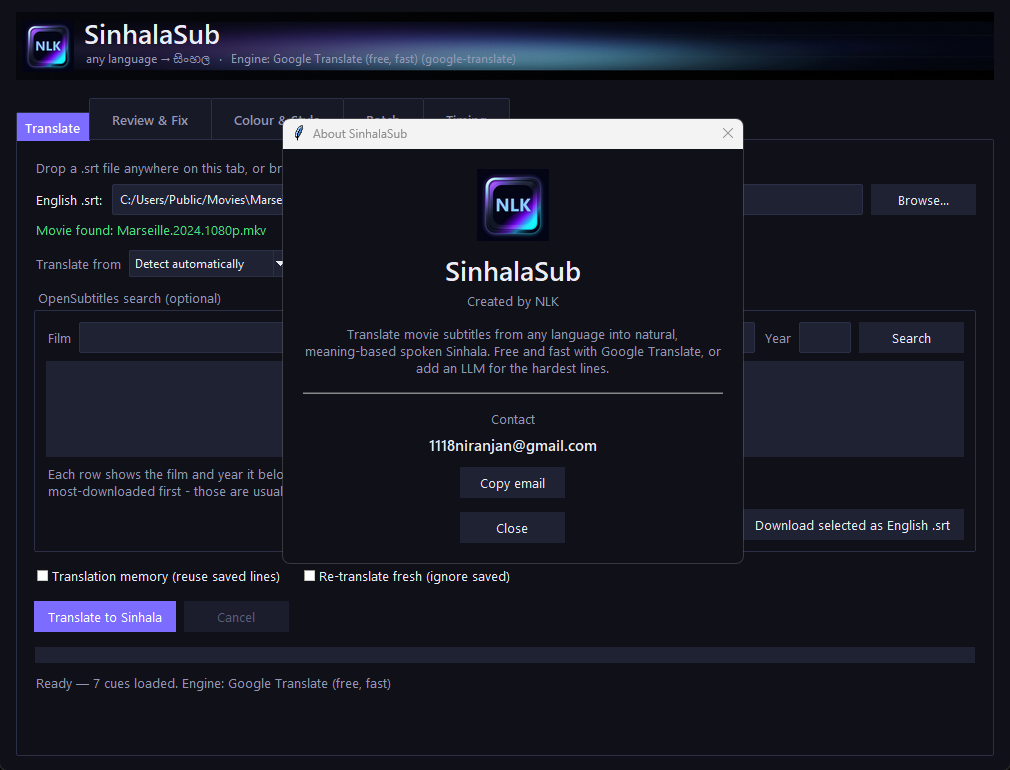
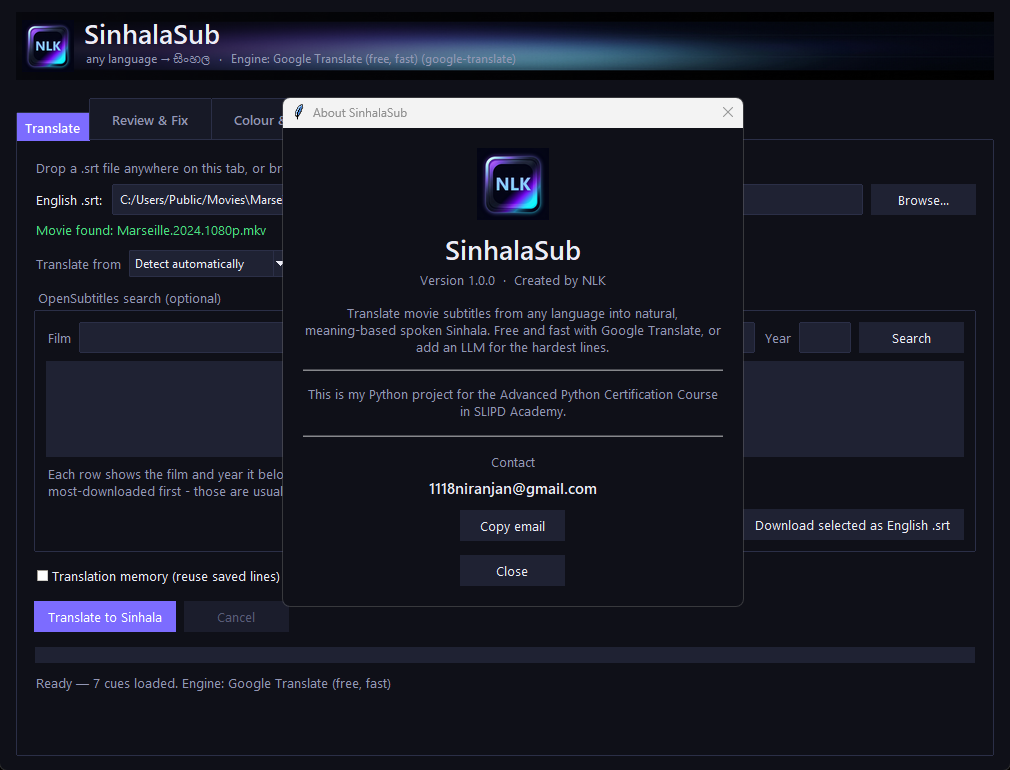
refactor: move the code into a sinhalasub package
The root now holds only what you run - main.py and SinhalaSub.pyw - with every
module inside sinhalasub/, so someone opening the repository sees the entry
point immediately instead of a wall of files.

Your settings, secrets and translation database still live beside the launcher
rather than inside the package, so the paths people already have keep working.
Adds the SLIPD Academy course credit to About and the README, points the clone
URL at the real repository, and documents the layout.

Changed region(s): [[0.2762, 0.1247, 0.7366, 0.7792]]

diff --git a/sinhalasub/app.py b/sinhalasub/app.py
@@ -27,13 +27,10 @@ from tkinter import colorchooser, filedialog, messagebox, ttk
 
 import pysrt
 
-import colorize
-import memory_db
-import providers
-import quality
-import subtitle_export
+from . import (ROOT_DIR, __version__, colorize, memory_db, providers,
+               quality, subtitle_export)
 
-_HERE = os.path.dirname(os.path.abspath(__file__))
+_HERE = ROOT_DIR  # settings, database and assets sit beside the app
 
 
 def load_env_file(path=None):
@@ -1356,12 +1353,17 @@ class SinhalaSubApp:
         if logo:
             tk.Label(frm, image=logo, bd=0, bg=BG).pack()
         ttk.Label(frm, text="SinhalaSub", style="Title.TLabel").pack(pady=(8, 0))
-        ttk.Label(frm, text="Created by NLK", style="Dim.TLabel").pack()
+        ttk.Label(frm, text="Version %s  ·  Created by NLK" % __version__,
+                  style="Dim.TLabel").pack()
         ttk.Label(frm, style="Dim.TLabel", wraplength=420, justify="center",
                   text="Translate movie subtitles from any language into natural, "
                        "meaning-based spoken Sinhala. Free and fast with Google "
                        "Translate, or add an LLM for the hardest lines.").pack(
             pady=(12, 0))
+        ttk.Separator(frm, orient="horizontal").pack(fill="x", pady=12)
+        ttk.Label(frm, style="Dim.TLabel", wraplength=420, justify="center",
+                  text="This is my Python project for the Advanced Python "
+                       "Certification Course in SLIPD Academy.").pack()
 
         ttk.Separator(frm, orient="horizontal").pack(fill="x", pady=14)
         ttk.Label(frm, text="Contact", style="Dim.TLabel").pack()

diff --git a/sinhalasub/providers.py b/sinhalasub/providers.py
@@ -12,7 +12,9 @@ import subprocess
 import threading
 import time
 
-_HERE = os.path.dirname(os.path.abspath(__file__))
+from . import ROOT_DIR
+
+_HERE = ROOT_DIR  # secrets.json sits beside the app, not inside the package
 SECRETS_PATH = os.path.join(_HERE, "secrets.json")
 
 # On Windows the claude CLI is a .cmd shim; hide the console window it spawns.
@@ -383,7 +385,7 @@ class GoogleTranslateProvider(Provider):
         return targets
 
     def translate(self, prompt, stdin_text, timeout):
-        import subtitle_text as st
+        from . import subtitle_text as st
 
         targets = self._targets(stdin_text)
         if not targets:
@@ -510,10 +512,9 @@ def build_active_provider(settings, secrets=None, cli_path=None):
     # Names learned from earlier movies keep a character's spelling consistent;
     # anything the user typed explicitly still wins.
     try:
-        import memory_db
-        import os as _os
+        from . import memory_db
         gloss = memory_db.MemoryDB(
-            _os.path.join(_HERE, "translations.db")).glossary_with_names(gloss)
+            os.path.join(ROOT_DIR, "translations.db")).glossary_with_names(gloss)
     except Exception:  # noqa: BLE001 - the glossary is an enhancement, not a need
         pass
     source = settings.get("source_lang") or "auto"

diff --git a/tests/test_google_translate_provider.py b/tests/test_google_translate_provider.py
@@ -1,4 +1,4 @@
-import providers
+from sinhalasub import providers
 
 
 class FakeBatchTranslator:
@@ -41,7 +41,7 @@ def test_translates_only_the_translate_section(monkeypatch):
 
 def test_output_parses_with_the_existing_response_parser(monkeypatch):
     monkeypatch.setattr(providers, "_google_translator_cls", lambda: FakeBatchTranslator)
-    import sinhalasub
+    from sinhalasub import app as sinhalasub
     prov = providers.GoogleTranslateProvider()
     stdin = "TRANSLATE (1 lines):\n5|||Some line\n"
     out = prov.translate("P", stdin, 60)

diff --git a/sinhalasub/__init__.py b/sinhalasub/__init__.py
@@ -1,0 +1,14 @@
+"""SinhalaSub - translate movie subtitles from any language into Sinhala.
+
+The code lives in this package; the project root holds the launcher, your
+settings and the translation database. ROOT_DIR points at that root so user
+data is written beside the app rather than inside the source folder.
+"""
+
+import os
+
+PACKAGE_DIR = os.path.dirname(os.path.abspath(__file__))
+ROOT_DIR = os.path.dirname(PACKAGE_DIR)
+
+__version__ = "1.0.0"
+__author__ = "NLK"

diff --git a/tests/conftest.py b/tests/conftest.py
@@ -1,3 +1,14 @@
+"""Shared test helpers.
+
+Adds the project root to sys.path so `from sinhalasub import ...` resolves when
+pytest is run from anywhere in the repository.
+"""
+import os
+import sys
+
+sys.path.insert(0, os.path.dirname(os.path.dirname(os.path.abspath(__file__))))
+
+
 class FakeResponse:
     def __init__(self, status_code=200, json_data=None, text=""):
         self.status_code = status_code

diff --git a/main.py b/main.py
@@ -1,0 +1,17 @@
+"""SinhalaSub launcher.
+
+Run with:  python main.py
+(or double-click SinhalaSub.pyw to start it without a console window)
+
+The application code lives in the `sinhalasub/` folder next to this file.
+"""
+
+import os
+import sys
+
+sys.path.insert(0, os.path.dirname(os.path.abspath(__file__)))
+
+from sinhalasub.app import main  # noqa: E402
+
+if __name__ == "__main__":
+    main()

diff --git a/tests/test_reuse.py b/tests/test_reuse.py
@@ -1,9 +1,9 @@
 """Hard lines translated by an LLM must be reusable on later free runs."""
 import pysrt
 
-import memory_db
-import providers
-import sinhalasub
+from sinhalasub import memory_db
+from sinhalasub import providers
+from sinhalasub import app as sinhalasub
 
 
 HARD = ("He told me that the entire arrangement had collapsed, long before "

diff --git a/tests/test_bad_response.py b/tests/test_bad_response.py
@@ -1,8 +1,8 @@
 """A failed request must never be written into a subtitle as a translation."""
 import pysrt
 
-import providers
-import sinhalasub
+from sinhalasub import providers
+from sinhalasub import app as sinhalasub
 
 
 ERROR_PAGE = ("Error 500 (Server Error)!!1500.That's an error.There was an error. "

diff --git a/tests/test_opensubtitles.py b/tests/test_opensubtitles.py
@@ -1,7 +1,7 @@
 """OpenSubtitles search must make it obvious which film each result is."""
 import requests
 
-import sinhalasub
+from sinhalasub import app as sinhalasub
 
 
 def _item(movie, year, release, downloads=0, file_id=1, ftype="Movie", lang="en"):

diff --git a/tests/test_efficiency.py b/tests/test_efficiency.py
@@ -1,7 +1,7 @@
 """Token/time efficiency: skip untranslatable cues, translate duplicates once."""
 import pysrt
 
-import sinhalasub
+from sinhalasub import app as sinhalasub
 
 
 def _subs(texts):

diff --git a/tests/test_features.py b/tests/test_features.py
@@ -3,7 +3,7 @@ import os
 
 import pysrt
 
-import sinhalasub
+from sinhalasub import app as sinhalasub
 
 
 # ----- drag and drop payloads ------------------------------------------------

diff --git a/tests/test_cli_provider.py b/tests/test_cli_provider.py
@@ -1,7 +1,7 @@
 import subprocess
 import types
 
-import providers
+from sinhalasub import providers
 
 
 def _fake_completed(returncode=0, stdout="1|||හලෝ\n", stderr=""):
